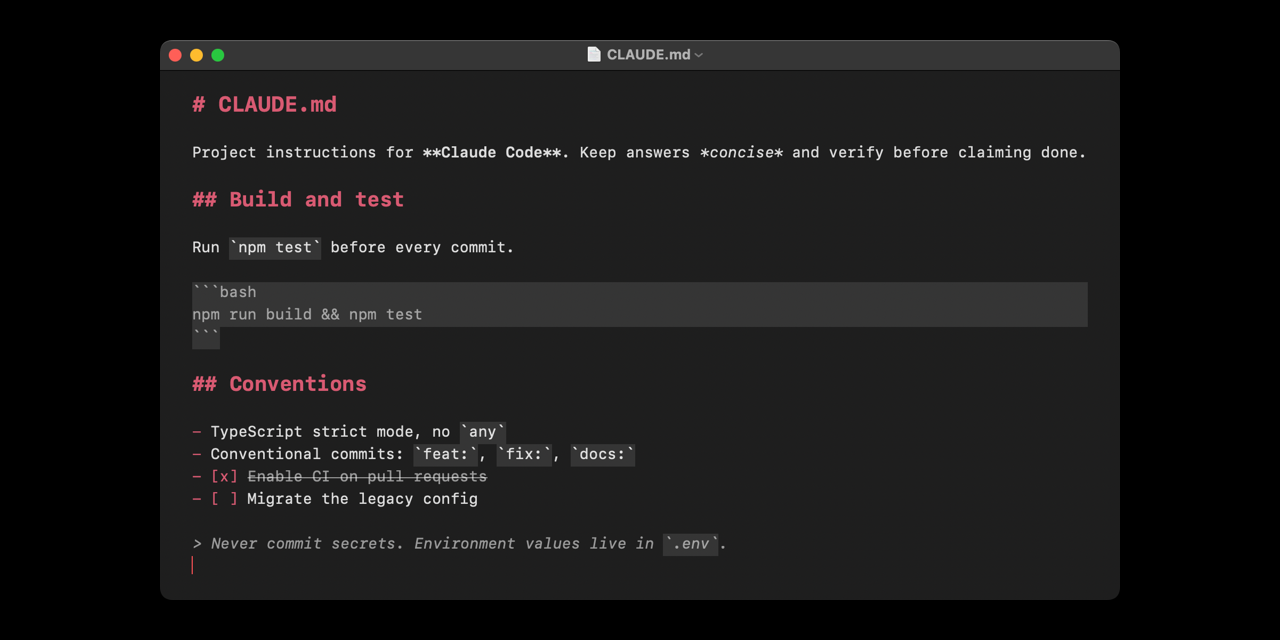
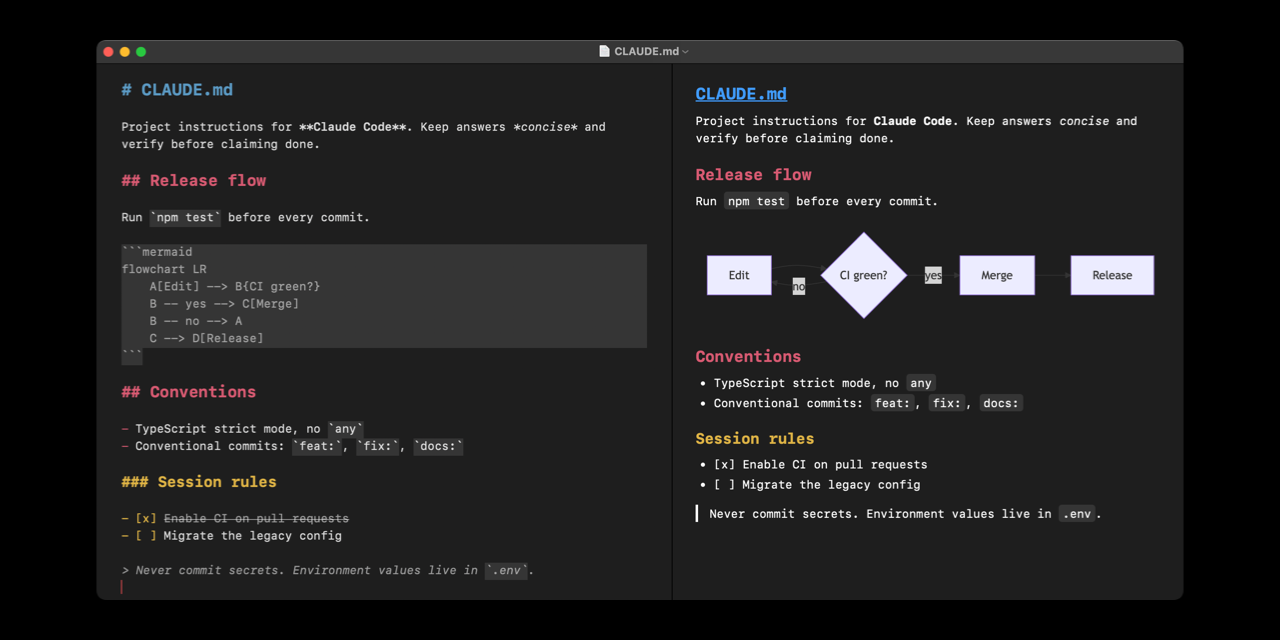
docs: feature-callout README with screenshots for 2.0.0

diff --git a/README.md b/README.md
@@ -1,201 +1,86 @@
 # MacMD
 
-A lightweight, native, open source Markdown editor for macOS. MacMD feels like TextEdit built for `.md` files: open a Markdown file, edit it as plain text with live syntax highlighting, and save exactly the bytes you typed. The download is about 1.5 MB, and the app makes no network connections of any kind.
+A fast, native Markdown editor for macOS with live syntax highlighting, a rendered preview, and Mermaid diagrams. Free and open source, MIT licensed, and a download smaller than 3 MB with zero telemetry.
 
-MacMD is made for the Markdown files developers touch every day: `README.md`, `CLAUDE.md`, `AGENTS.md`, agent and skill configs, notes, and docs.
+Built for the Markdown files developers actually live in: `README.md`, `CLAUDE.md`, `AGENTS.md`, agent and skill configs, notes, and docs.
 
-**[Download the latest release](../../releases/latest)** for macOS 14 (Sonoma) or later. Free, MIT licensed.
+**[Download the latest release](../../releases/latest)** (macOS 14 or later)
 
-![MacMD editing a CLAUDE.md agent config file with live Markdown syntax highlighting in dark mode](docs/screenshot.png)
+![MacMD editing a CLAUDE.md file, with the live preview rendering a Mermaid flowchart and three-color headings](docs/screenshot.png)
 
-## Why MacMD
+## Live preview
 
-- **Native and lightweight.** Swift and AppKit, not an Electron wrapper. The installer is about 1.5 MB, and uninstalling is dragging one app to the Trash.
-- **Live syntax highlighting.** Headings, bold, italic, code, links, lists, task lists, blockquotes, and front matter are styled as you type. The text stays plain Markdown; nothing is hidden or rewritten.
-- **Plain text in, plain text out.** No smart quotes, no dash substitution, no autocorrect, no link detection. Paste always comes in as plain text. What you save is what you typed.
-- **Private by design.** No network access, no telemetry, no analytics, no accounts. The app contains no networking code at all.
-- **Free and open source.** MIT licensed, with the full Swift source in this repository.
+View → Show Preview (Cmd-Shift-P) splits the window with a rendered view that updates as you type and follows the editor as you scroll. It renders tables, strikethrough, and autolinked URLs, mirrors your editor theme, fonts, and background in light and dark, loads images from the document's folder, and opens links in your browser.
 
-## Built for editing CLAUDE.md, AGENTS.md, and agent configs
+Documents open editor-only. Like the formatting toggle, Show Preview applies to every open window at once.
 
-Markdown is the config language of AI coding tools, and those files break in editors designed for prose. MacMD is a safe place to edit `CLAUDE.md`, `AGENTS.md`, `agent.md`, skill definitions, and rule files:
+## Mermaid diagrams
 
-- No smart punctuation or autocorrect, so prompts, code fences, and flags survive editing byte-for-byte.
-- YAML (`---`) and TOML (`+++`) front matter is recognized at the top of the file and styled as muted metadata.
-- Fenced code blocks suppress inline formatting, so example code stays code.
-- Task lists highlight, and checkboxes toggle with a click.
-- Byte-exact saves mean clean `git diff`s. The only exceptions are POSIX conventions: a single trailing newline is added if missing, and a leading UTF-8 BOM is stripped on read.
+Fenced `mermaid` code blocks render as real diagrams in the preview and in exports, as in the screenshot above. Twelve diagram types ship: flowchart, sequence, class, state, entity relationship, gantt, pie, mindmap, git graph, journey, timeline, and quadrant. Rendering happens locally in a locked-down sandbox: document content cannot run script, and nothing touches the network.
 
-## Install
+## Export to HTML
 
-Minimum macOS version: 14 (Sonoma).
+File → Export to HTML (Cmd-Shift-E) writes a single self-contained file. Styling is inlined and matches your theme, images from the document folder are embedded, and Mermaid diagrams are baked in as SVG. Remote image references are stripped, so the exported file loads nothing from the network when someone opens it.
 
-### 1. Download
+## The editor
 
-Go to the [latest release](../../releases/latest). You'll see several files; grab just one (version numbers will match whatever the current release is):
+![The MacMD editor with a unified red theme, showing highlighted headings, code, task lists, and a blockquote](docs/editor.png)
 
-| File | What it is | Who should click it |
-|---|---|---|
-| **`MacMD-<version>.dmg`** | The installer. ~1.5 MB. | **Most people: this is the one you want.** |
-| `MacMD-<version>.zip` | Same app, zipped instead of in a DMG. | Alternative if your browser doesn't like DMGs. |
-| `*.sha256` | Tiny checksum files. | Optional; for verifying your download wasn't tampered with. |
-| `Source code (zip / tar.gz)` | The Swift source. | Only if you want to build it yourself. Ignore otherwise. |
+Everything stays plain text; the editor styles it live and never rewrites it:
 
-### 2. Copy to Applications
+- Headings, bold, italic, strikethrough, inline code, fenced code blocks (backtick and tilde), links, ordered and unordered lists, blockquotes, horizontal rules, and YAML/TOML front matter
+- Task lists with clickable checkboxes (or Cmd-Shift-L on the current line)
+- Return continues lists and keeps ordered-list numbering going
+- Cmd-/ flips every window between styled Markdown and plain source with line numbers
+- Find and Replace, Print, spell check with optional grammar, and an optional word count with reading time
+- Format commands that wrap or unwrap the selection: bold (Cmd-B), italic (Cmd-I), strikethrough (Cmd-Shift-X), inline code, link (Cmd-K)
 
-Double-click the DMG. A Finder window opens with `MacMD.app` and an `Applications` shortcut. Drag `MacMD.app` onto `Applications`. You can eject the DMG after.
+## Themes
 
-### 3. First launch (one-time Gatekeeper approval)
+<p>
+  <img src="docs/settings.png" width="49%" alt="The Settings window: Appearance tab with mode, background, theme, scheme, font, and cursor controls plus a live preview" />
+  <img src="docs/themes.png" width="49%" alt="The theme dropdown open, showing six preset palettes with light and dark swatches plus Custom+" />
+</p>
 
-MacMD is signed ad-hoc, not Apple-notarized (notarization requires a paid Apple Developer account), so macOS blocks it the first time.
+Settings (Cmd-,) covers Light, Dark, or System mode, the editor background (any custom color, with text that adjusts to stay readable), the body font (eight families) and size, and the cursor style (bar, block, or underline, blink optional), all with a live preview in the window.
 
-**On macOS 15 Sequoia or newer:**
+Heading color is a scheme choice: Default (no color), Unified (one color for every level, eight presets), or Standard (three colors for H1/H2/H3, six preset palettes). The hero screenshot above is Standard with the CMY(K) palette.
 
-1. Double-click `MacMD` in Applications.
-2. macOS shows "cannot verify this app is free from malware." Click **Done**.
-3. Open **System Settings → Privacy & Security**. Scroll to the **Security** section.
-4. Next to "MacMD was blocked to protect your Mac", click **Open Anyway**.
-5. Confirm once more, authenticate with Touch ID or password.
-6. MacMD launches.
+<img src="docs/theme-builder.png" width="45%" alt="The Custom Theme builder with separate H1, H2, and H3 colors for light and dark" />
 
-**On macOS 14 Sonoma:**
+Custom+ opens the theme builder: pick your own colors, separately for light and dark, name the palette, and it saves into the theme list.
 
-Right-click `MacMD.app` → **Open** → **Open** in the confirmation dialog.
+## Plain text you can trust
 
-After this one-time approval, MacMD launches normally every time.
+What you save is what you typed: UTF-8, no smart quotes, no dash substitution, no autocorrect, and paste always comes in plain. The two exceptions are old text-editor conventions, a single trailing newline added on save if missing and a leading BOM stripped on read. A file that is not valid UTF-8 is refused with an error instead of silently corrupted. Files over 8 MiB open unstyled so typing stays fast; over 64 MiB they are refused.
 
-### 4. Open .md files
+## Privacy and security
 
-Any of these work:
+MacMD makes no network connections: no update checks, no crash reporting, no analytics. The preview and export render fully offline from a bundled engine, inside a web view with a strict content security policy, all network access denied, and no script execution from document content. The binary is code-signed with the hardened runtime enabled.
 
-- Right-click any `.md` file and choose **Open With → MacMD** (or set it as default via File → Get Info → Open with → Change All).
-- Drag a `.md` file onto the MacMD icon in the Dock.
-- File → Open inside MacMD.
-- Cmd-N for a new untitled document.
+The app is not sandboxed (the App Sandbox broke saving to external drives; BBEdit, Sublime Text, and VS Code make the same call). It only touches files you open or save through the standard panels. Verify the entitlements yourself:
 
-MacMD opens `.md`, `.markdown`, `.mdown`, and `.mkd` files.
-
-### Uninstall
-
-Drag `MacMD.app` from Applications to Trash. No daemons, no receipts, no login items. The only trace left behind is the standard small preferences file every Mac app keeps; remove `~/Library/Preferences/com.sleetcrash.MacMD.plist` too if you want zero trace.
-
-## Write and save
-
-The File menu works exactly as you'd expect, and all commands use standard Mac keybindings:
-
-    Cmd-N     New document
-    Cmd-O     Open an existing .md file
-    Cmd-S     Save (prompts for filename + location on first save)
-    Cmd-Shift-S   Save As
-    Cmd-P     Print
-    Cmd-W     Close window (prompts to save if dirty)
-    Cmd-Z / Cmd-Shift-Z   Undo / Redo
-    Cmd-F     Find (inline find bar)
-    Cmd-Opt-F     Find and Replace
-    Cmd-B / Cmd-I     Bold / Italic the selection (wraps or unwraps)
-    Cmd-Shift-X   Strikethrough the selection
-    Cmd-K     Wrap the selection as a link
-    Cmd-Shift-L   Toggle the task checkbox on the current line
-    Cmd-/     Show Formatting: switch between styled Markdown and plain
-              source text with line numbers
-    Cmd-+ / Cmd--   Increase / decrease editor font size
-    Cmd-0     Reset editor font size to the default
-    Cmd-,     Settings (appearance, themes, fonts, cursor, editing defaults)
-
-Pressing Return on a list item continues the list: the next marker is inserted for you, with ordered-list numbering continued automatically. Spell check underlines misspellings as you type, with an optional grammar check. An optional word count and reading-time estimate sits under the editor (View → Show Word Count).
-
-The editor autosaves in the background. If the app quits unexpectedly, reopening recovers your work. Recent files appear under File → Open Recent, and a built-in offline Help window (Help → MacMD Help) covers the editor, files, settings, and shortcuts.
-
-## What gets highlighted
-
-As you type, MacMD styles these Markdown constructs live:
-
-    # Heading 1 through ###### Heading 6   → bold, theme color, sized per level
-    **bold** and __bold__                  → bold
-    *italic* and _italic_                  → italic
-    ***bold italic***                      → bold + italic compose correctly
-    ~~strikethrough~~                      → single-line strike
-    `inline code`                          → subtle background tint
-    ```        ~~~                         → fenced code blocks get the same tint,
-    fenced     fenced                         and style to end of document if you
-    ```        ~~~                            haven't closed them yet (backtick and
-                                              tilde fences both work; a fence can
-                                              only be closed by the same marker)
-    [link label](https://example.com)      → label underlined in link color, URL muted
-    - unordered, * and + also valid        → marker inherits its section's heading color
-    1. ordered list, 1) also valid         → marker inherits its section's heading color
-    - [ ] todo                             → bracket inherits section color; click to toggle
-    - [x] done                             → bracket inherits section color + body strike-through
-    > blockquote                           → muted + italic, composes with bold inside
-    ---  (or +++)  front matter            → muted metadata block, recognized at the
-                                              top of the document (YAML and TOML)
-    ---                                    → horizontal rule, muted
-
-Highlighting updates only the paragraph you're editing, so typing stays smooth on long files. Inside fenced code blocks, inline rules are intentionally suppressed, so code stays code.
-
-Semantic colors are used throughout, so Dark Mode adapts automatically when you toggle system appearance.
-
-## What gets saved
-
-Plain UTF-8 text. Byte-for-byte what you typed: no smart quotes, no dash substitution, no link detection, no autocorrect. Paste from another app always comes in as plain text.
-
-Two narrow exceptions to byte fidelity, both long-standing text-editor conventions:
-
-- A single trailing newline is appended on save when the document doesn't already end with one (POSIX text-file convention; matters for shell pipelines, `wc -l`, and `git diff`).
-- A leading UTF-8 BOM (`EF BB BF`) is stripped on read, since BOMs are how some Windows editors and web tools sign their UTF-8 output and most editors silently strip it on import.
-
-If you try to open a file that isn't valid UTF-8, MacMD refuses and surfaces a clear error rather than silently corrupting it with replacement characters.
-
-Files larger than 64 MiB are rejected outright with a standard document-open error. Files between 8 MiB and 64 MiB open with syntax highlighting disabled so typing stays responsive; they're still fully editable, just unstyled.
-
-## Themes and settings
-
-Open Settings (Cmd-,) for a tabbed settings window with a live preview.
-
-The **Appearance** tab:
-
-- **Mode**: Light, Dark, or System (follows macOS).
-- **Background**: the default that follows your mode, or any custom color, with the text adjusting itself to stay readable.
-- **Scheme**: Default (headings bold and sized but uncolored), Unified (one color for every heading level), or Standard (three colors: H1, H2, H3, with H4 through H6 inheriting H3).
-- **Theme**: preset palettes, or a custom palette you build, name, and save, with separate colors for light and dark.
-- **Font**: eight body font families, monospaced and proportional, plus the size (also on the View menu: Cmd-+, Cmd--, Cmd-0).
-- **Cursor**: Bar, Block, or Underline, with an optional blink.
-
-The **Editing** tab sets the spelling and grammar defaults, plus the size new windows open at, with a Use Current Window button to capture the size of the window you're using. Reopened files keep their own remembered size.
-
-List markers inherit the color of the heading section they sit under. Body text always uses the adaptive label color.
-
-## Security and privacy
-
-MacMD makes no network connections: no update checks, no crash reporting, no analytics, no telemetry. The source contains no networking code, and the app requests no access to the camera, microphone, location, photos, contacts, or calendars. It registers no URL schemes, daemons, or background services. The hardened runtime is enabled and the binary is code-signed.
-
-The app only ever opens and saves files you explicitly choose through the standard Open and Save panels; it doesn't browse your filesystem on its own.
-
-MacMD is **not sandboxed**. The App Sandbox was removed because it caused intermittent save failures on external and USB volumes (the security-scoped URL granted at file-open time stopped being valid after the drive slept or was re-mounted, a known limitation of SwiftUI's `DocumentGroup`). This matches the posture of editors like BBEdit, Sublime Text, and VS Code.
-
-You can verify at any time:
-
-    codesign -dv --entitlements - /path/to/MacMD.app
+    codesign -dv --entitlements - /Applications/MacMD.app
 
 Security reports: see [SECURITY.md](SECURITY.md).
 
-## Scope
+## Install
 
-The current release is deliberately an editor, not an IDE: there is no rendered preview pane, no export, no multi-cursor editing, no outline pane, and no file browser. A rendered preview with HTML export is in development on `main` and will ship as version 2.0.
+Grab the DMG from the [latest release](../../releases/latest) and drag MacMD to Applications. It is signed but not notarized, so approve it once on first launch: on macOS 15 or newer, System Settings → Privacy & Security → Open Anyway; on macOS 14, right-click the app → Open.
 
-## Build from source
+MacMD opens `.md`, `.markdown`, `.mdown`, and `.mkd`. Uninstalling is dragging it to the Trash; the only leftover is a small preferences file in `~/Library/Preferences`.
 
-Requires Xcode 16 or newer.
+## Building
+
+Requires Xcode 16 or newer. Open `MacMD.xcodeproj` and hit Cmd-R, or:
 
     xcodebuild -project MacMD.xcodeproj -scheme MacMD -configuration Release -destination 'platform=macOS' build
 
-The built app lands in Xcode's DerivedData under `Build/Products/Release/MacMD.app`, or you can open the project in Xcode and press Cmd-R to run it directly.
+Run the tests the same way with `xcodebuild test`. The suite (352 tests) pins every highlighting rule, the file-handling guarantees, the render pipeline, and a hostile-input security gate. Project layout and house rules are in [CONTRIBUTING.md](CONTRIBUTING.md).
 
-Run tests:
+## Roadmap
 
-    xcodebuild test -project MacMD.xcodeproj -scheme MacMD -destination 'platform=macOS'
-
-The test suite covers every highlighting rule and the tricky edge cases: bold and italic composition, unclosed and reopened code fences, list-marker versus italic disambiguation, BOM stripping, the trailing-newline policy, the document size guards, and the task-list toggle. See [CONTRIBUTING.md](CONTRIBUTING.md) for the project layout and release packaging.
+A formatting toolbar, an outline pane, and a file browser are in development for 2.1. Multi-cursor editing is not planned.
 
 ## License
 